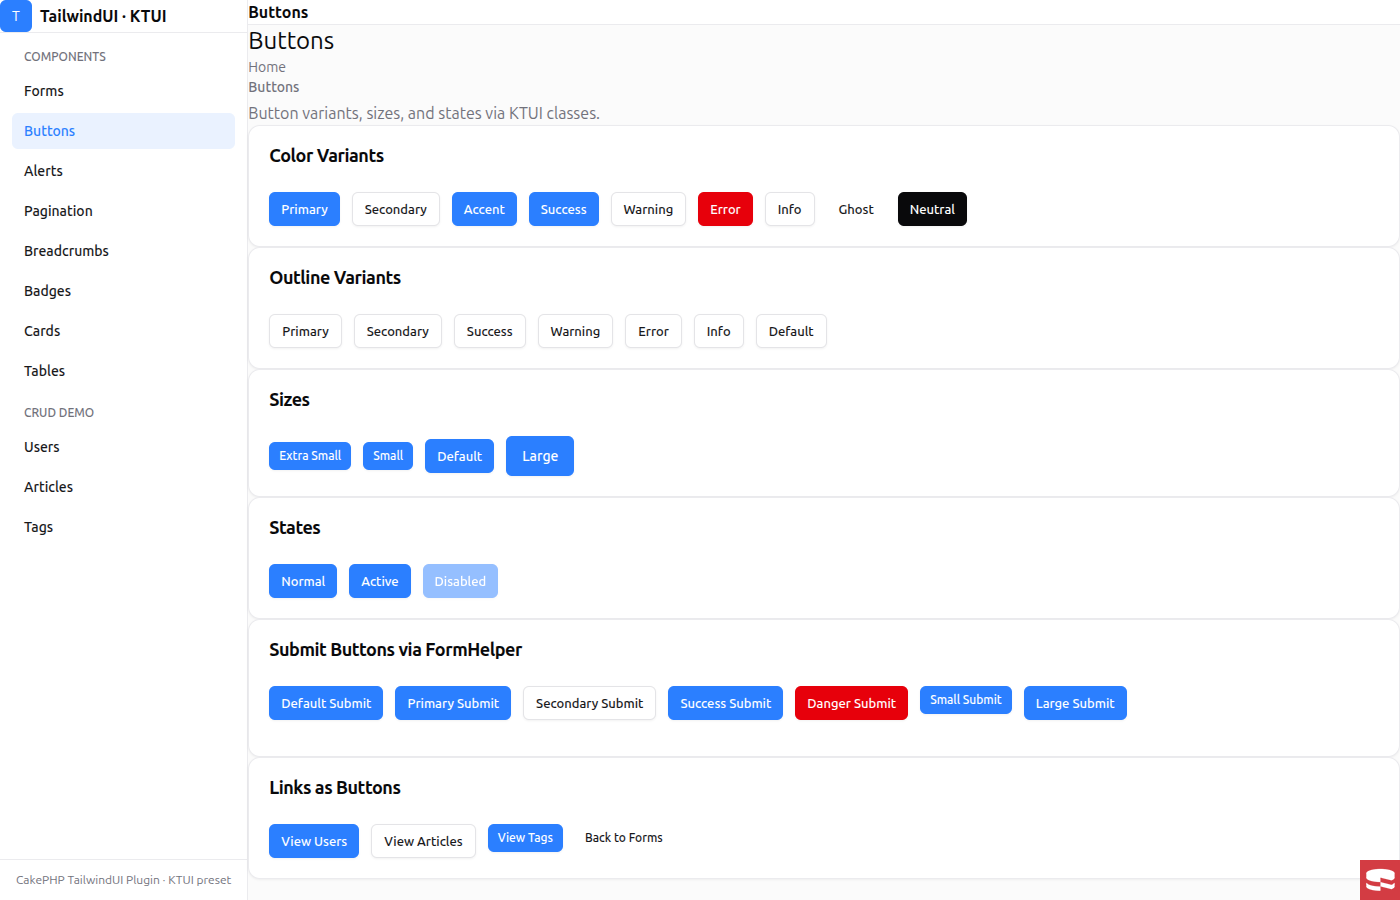
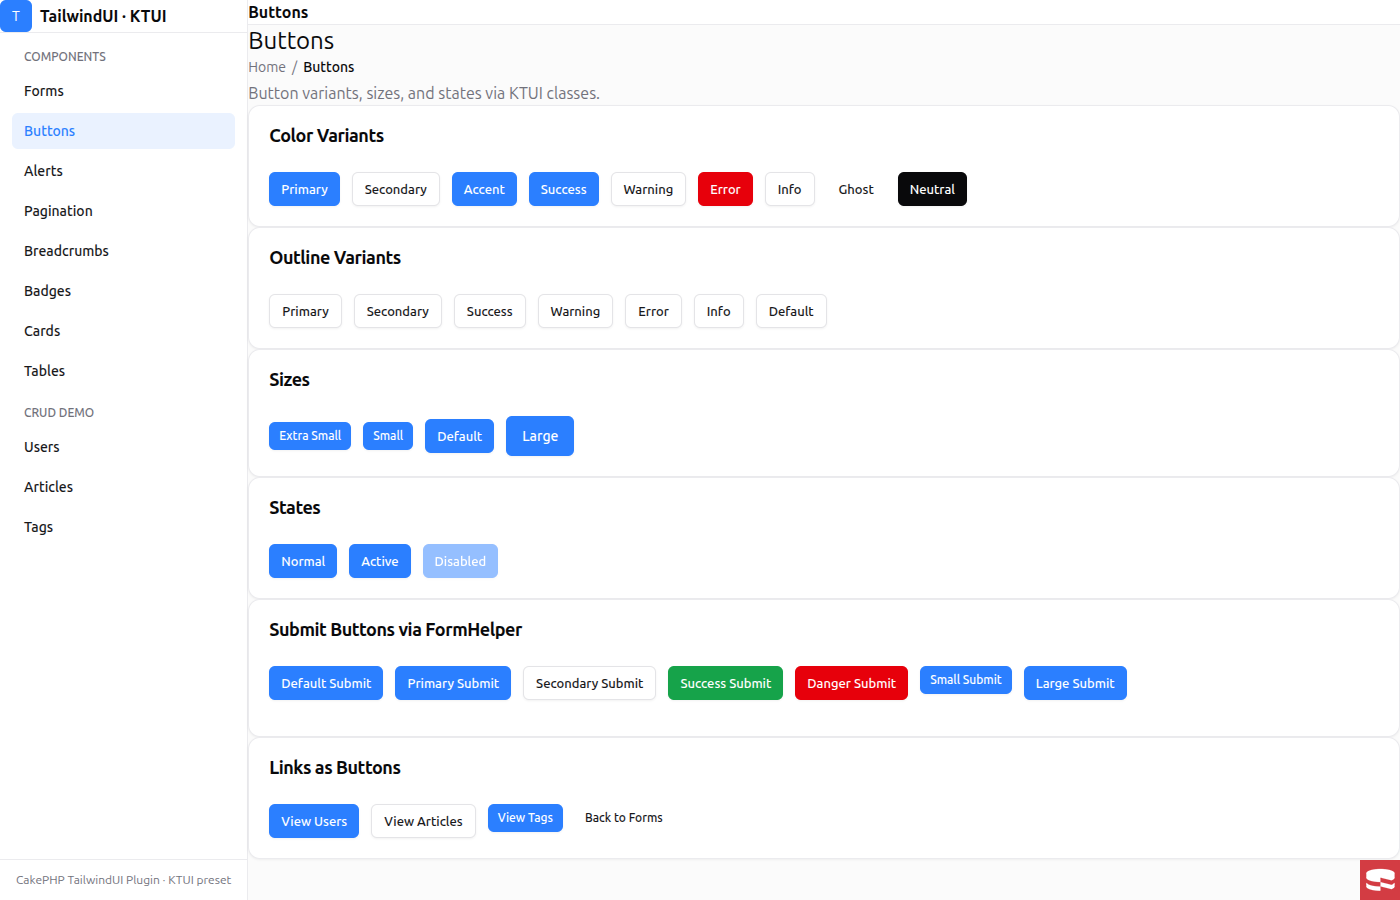
Give KTUI success/warning/info buttons distinct colors
Previously success/warning/info all mapped to kt-btn-outline because
KTUI does not provide native variants for those. Now they use solid
backgrounds (green-600, yellow-500, blue-500) with white text so every
variant in the button row is visually distinct.

The demo layout's style gap-filler provides the bg-*-500/600 classes
and their hover states since Metronic compiled CSS only has a subset.

diff --git a/config/class_maps/ktui.php b/config/class_maps/ktui.php
@@ -24,10 +24,10 @@ return [
     'btn' => 'kt-btn',
     'btn.primary' => 'kt-btn-primary',
     'btn.secondary' => 'kt-btn-outline',
-    'btn.success' => 'kt-btn-primary',
+    'btn.success' => 'bg-green-600 hover:bg-green-700 text-white border-transparent',
     'btn.danger' => 'kt-btn-destructive',
-    'btn.warning' => 'kt-btn-outline',
-    'btn.info' => 'kt-btn-outline',
+    'btn.warning' => 'bg-yellow-500 hover:bg-yellow-600 text-white border-transparent',
+    'btn.info' => 'bg-blue-500 hover:bg-blue-600 text-white border-transparent',
     'btn.outline' => 'kt-btn-outline',
     'btn.sm' => 'kt-btn-sm',
     'btn.lg' => '',
